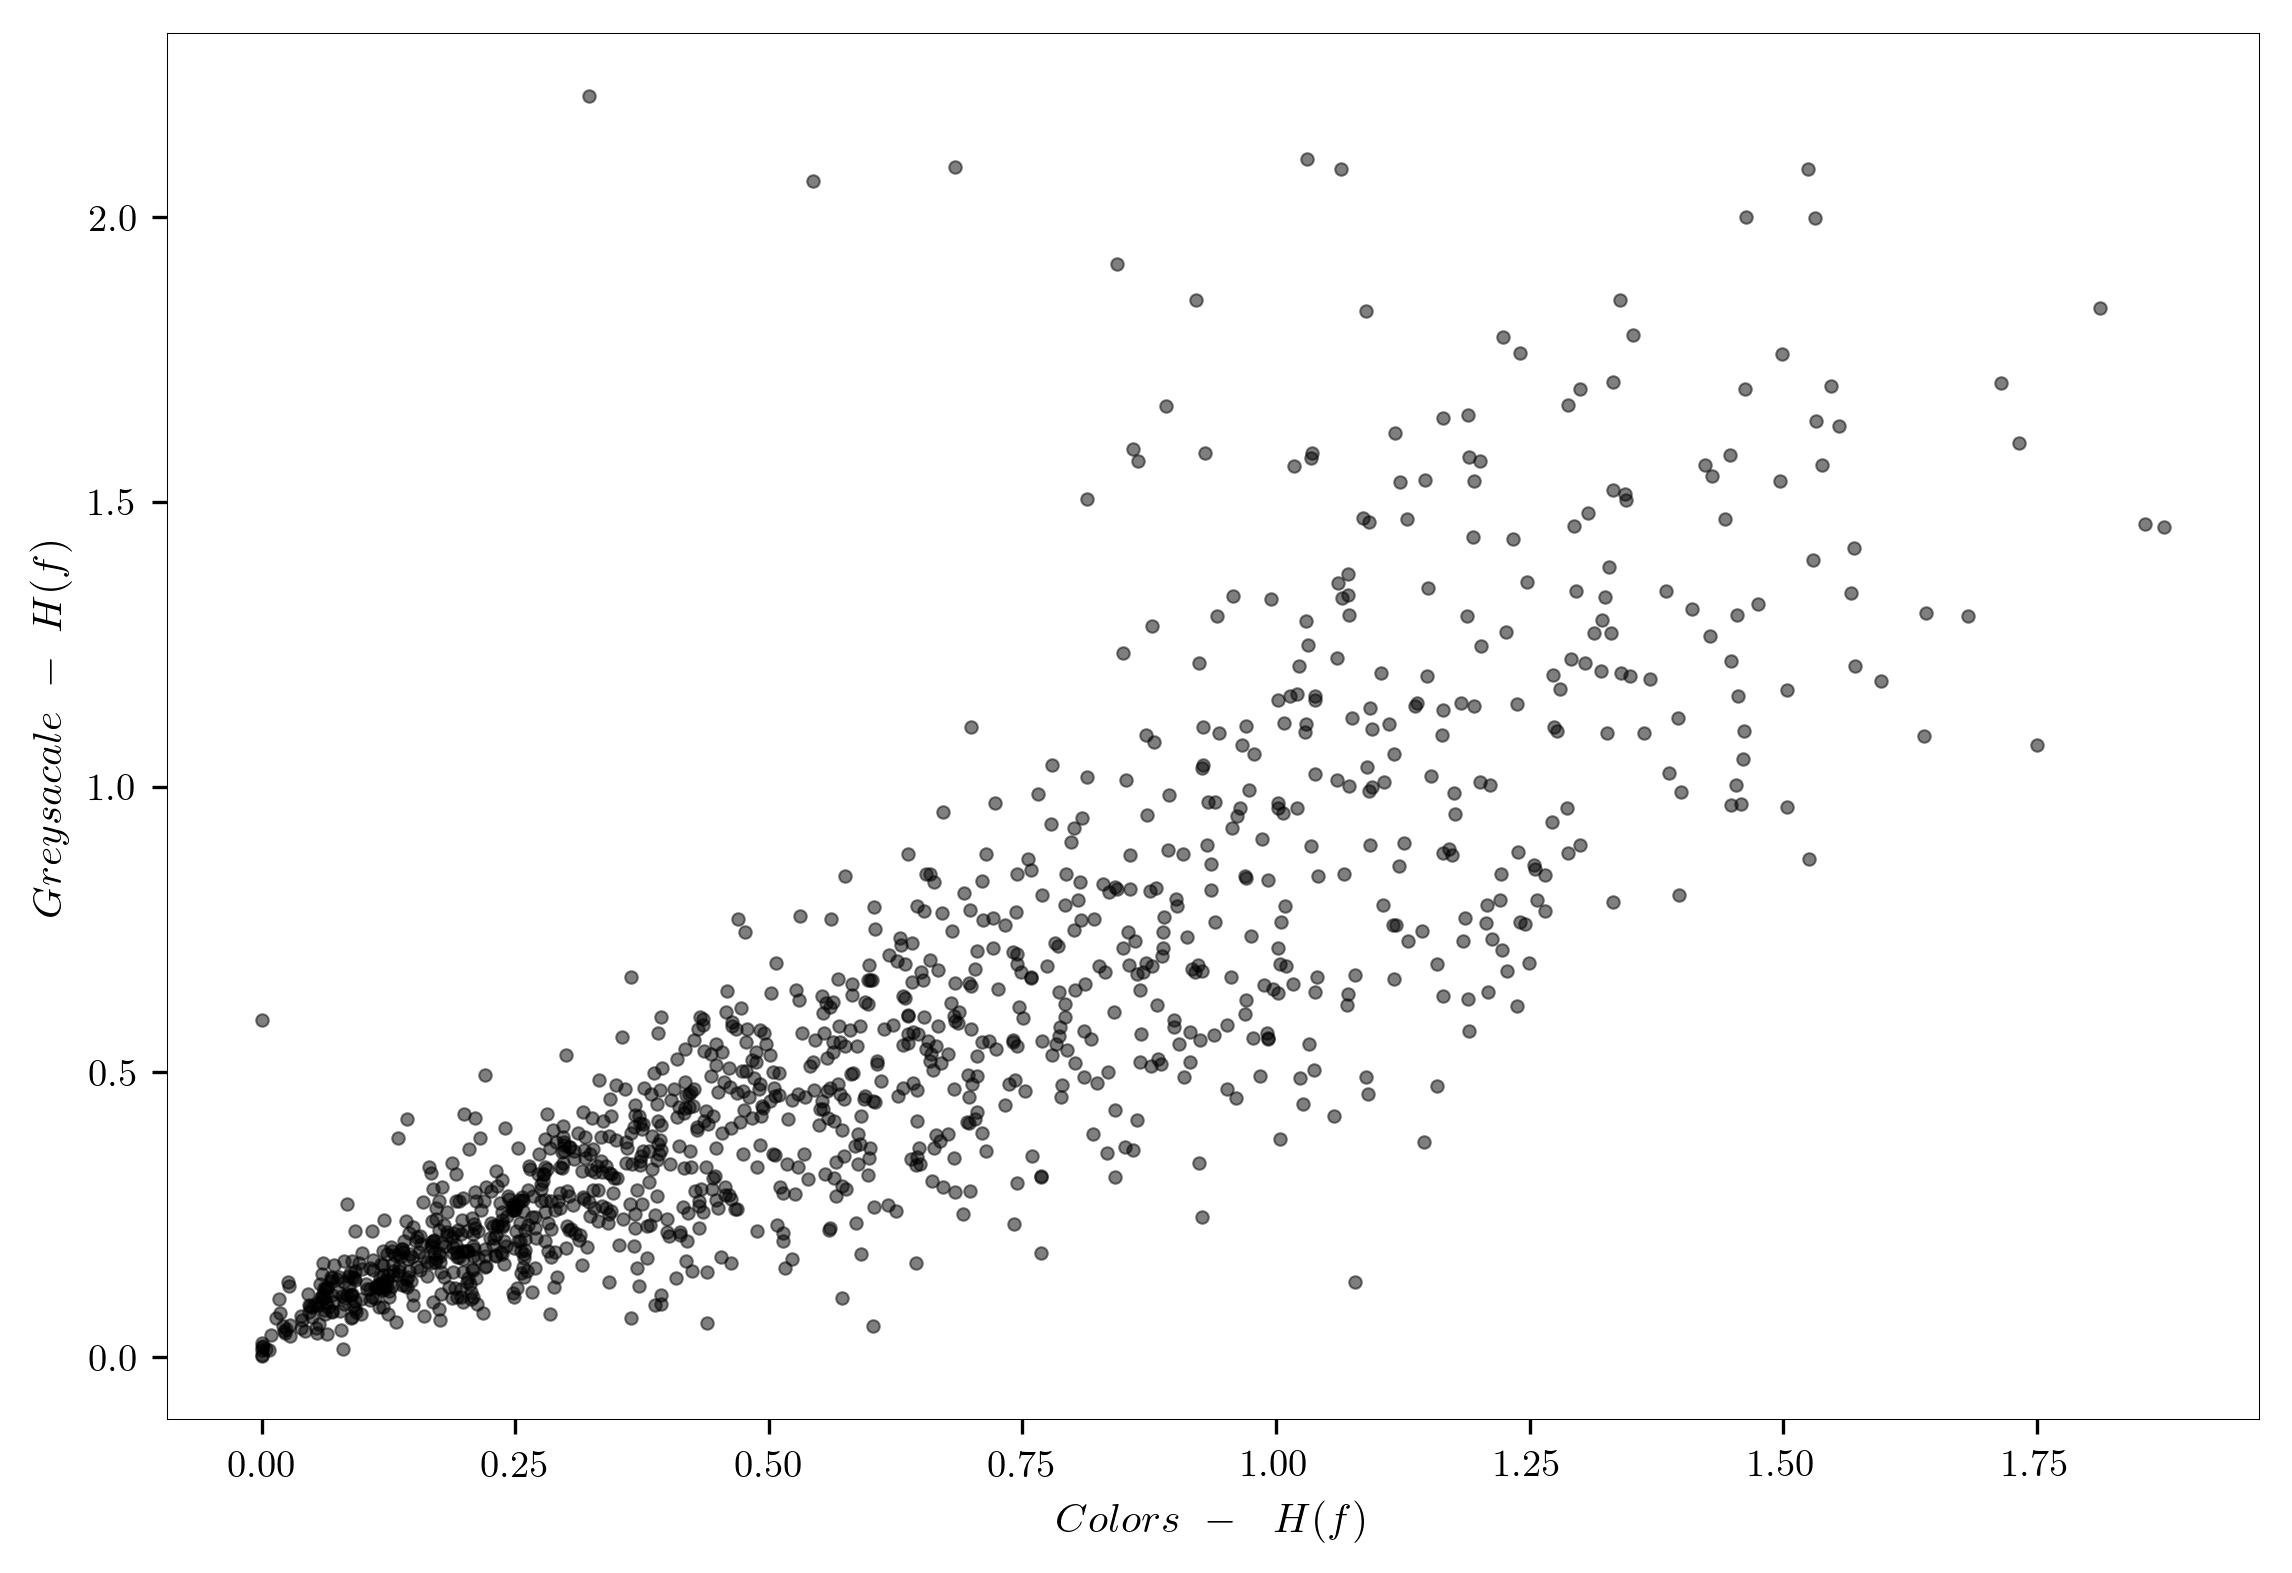
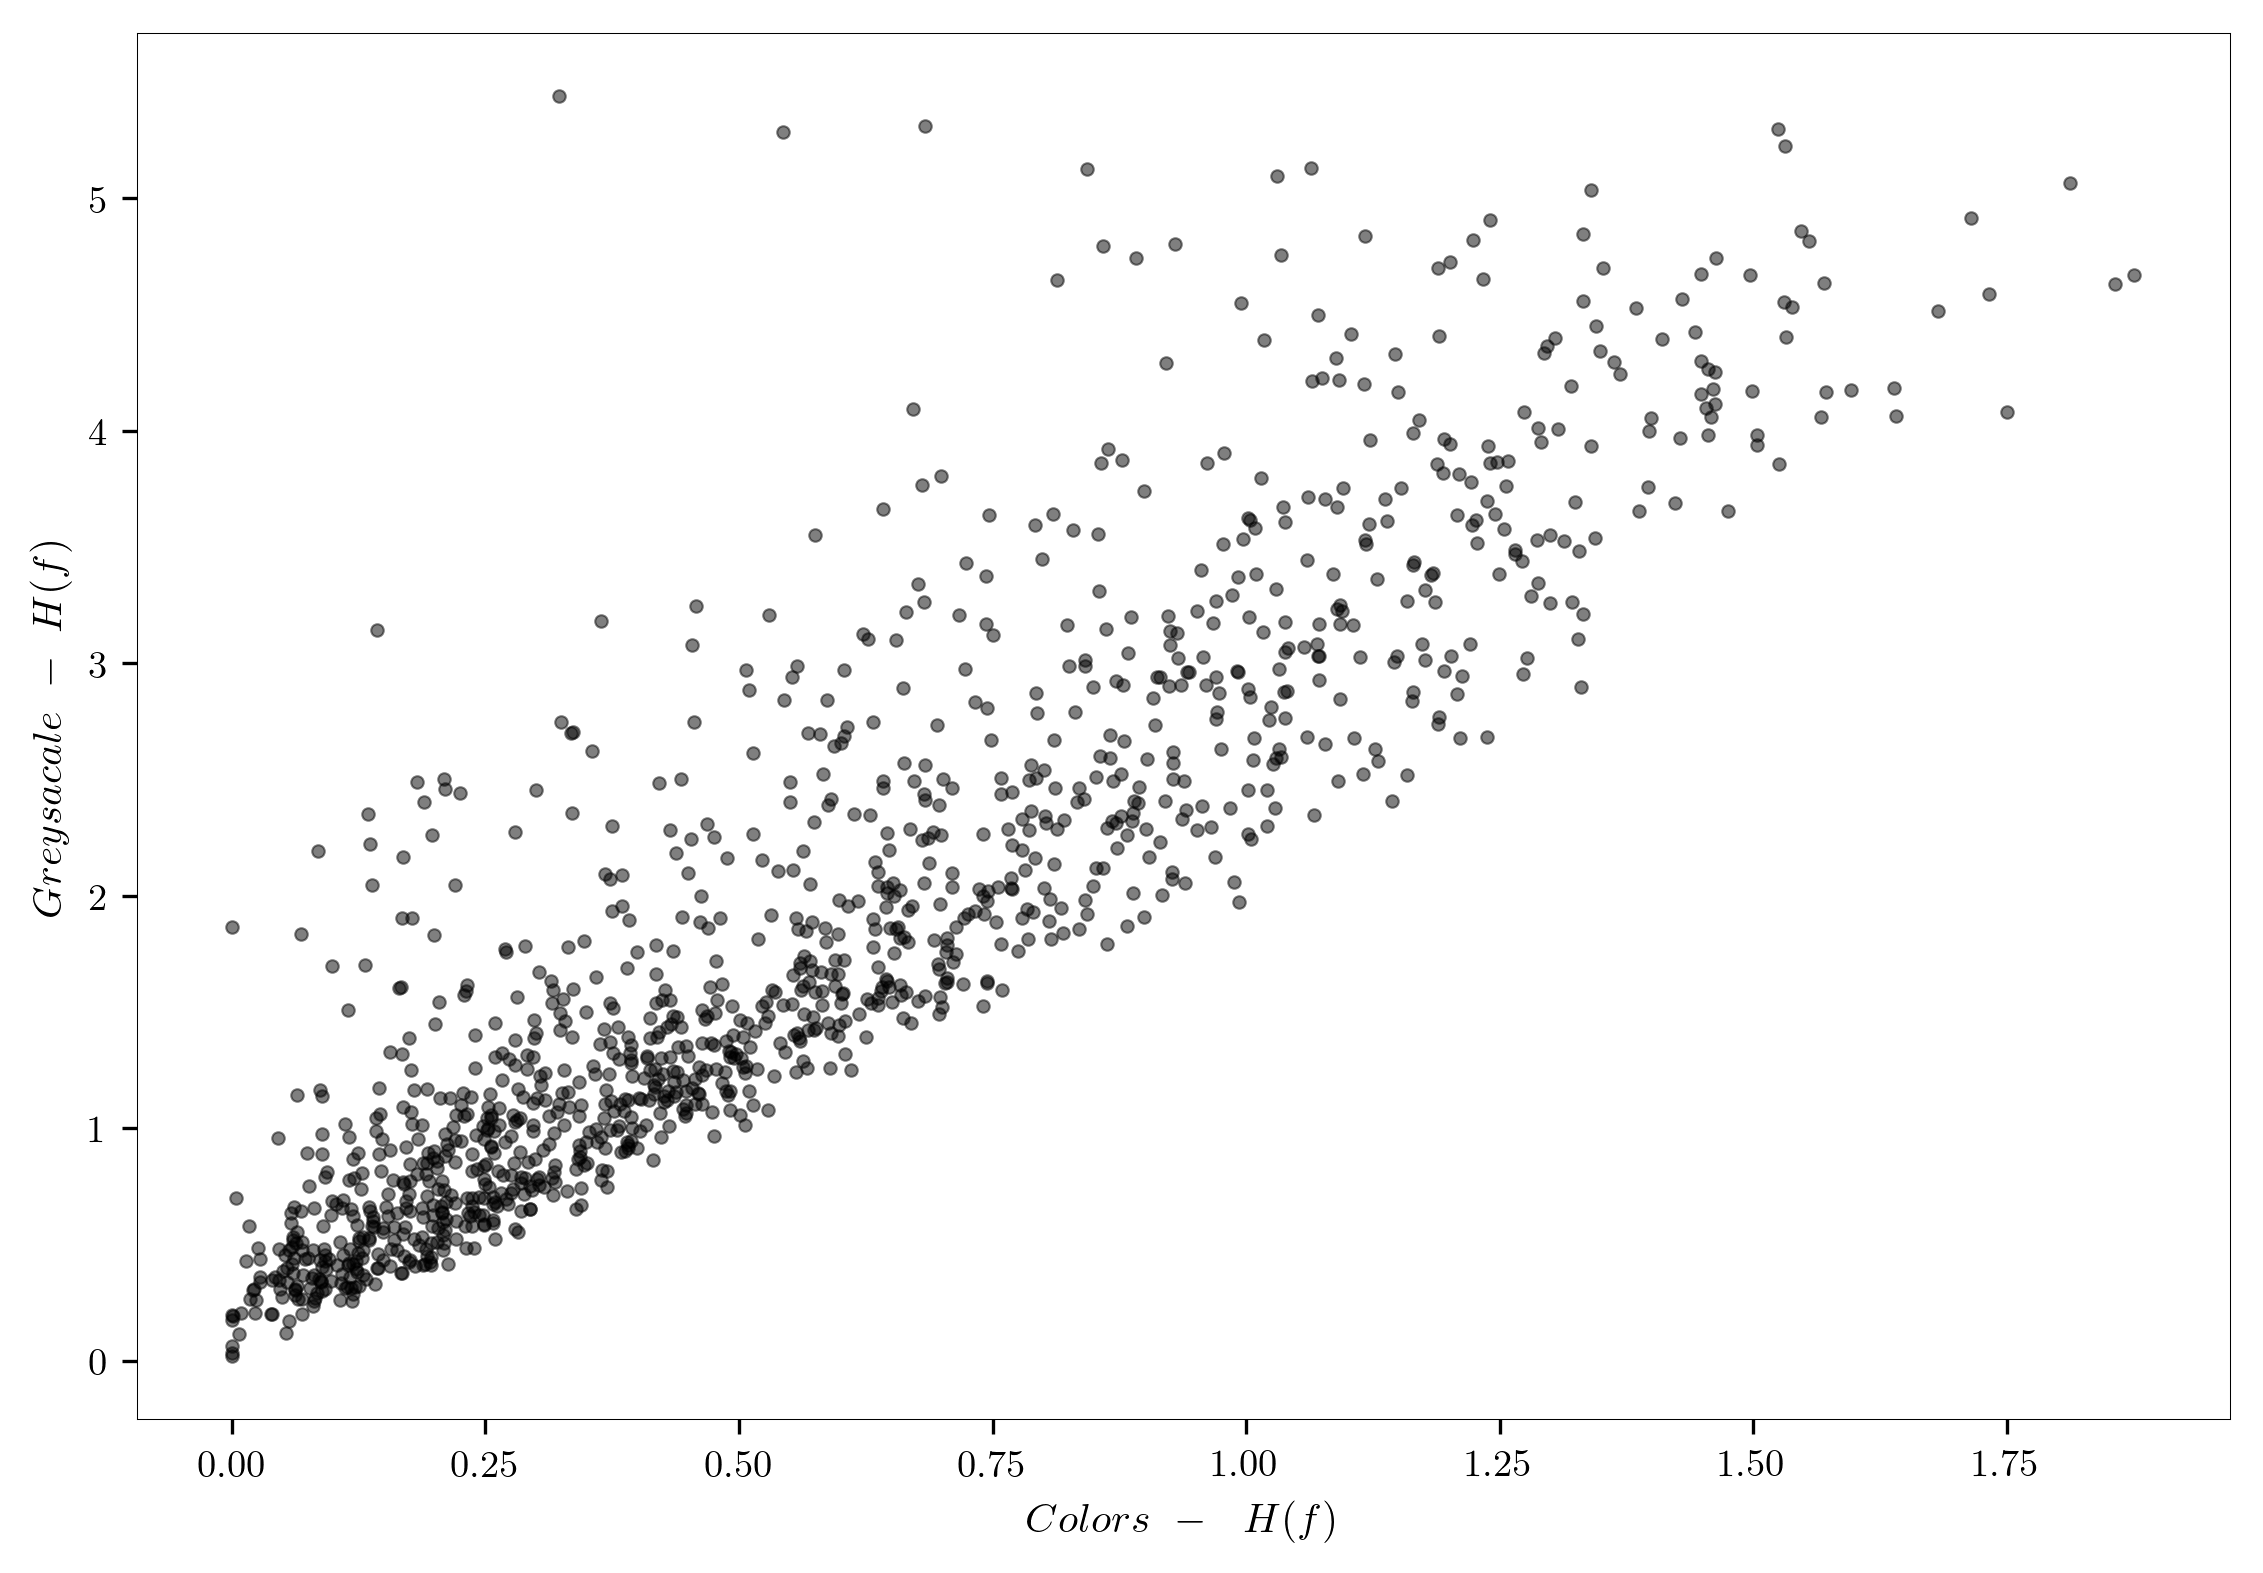
ajout référence Wu 2013 entropie qu'il faudra mettre dans Colours diversity

diff --git a/main.tex b/main.tex
@@ -477,18 +477,14 @@ In more details, we observe on Figure \ref{fig:grille} that the entropy values a
 	\label{fig:grille}
 \end{figure}
 
-\
-
 [PYB: Que peut-on en dire?]
 
-Based on the chosen colour sets, the entropy measure is sensitive to the errors of pixels colour attributions (e.g. similar distances, no Brown, etc.). Then, we compare it with a common approach of Computer Vision which consists to measure the entropy on the histogram greyscale levels of the drawing with the bin $g = 1, \dots, G$. (After the linear conversion of the pixel, we estimated and summed each probability that a grey value appears using the absolute variety as the number of unique grey value. )
-
-On Figure~\ref{fig:entropies}
+Based on the chosen colour sets, the entropy measure is sensitive to the errors during the pixel colour attributions (e.g. similar distances, no Brown, etc.). Then, we compare it with a common approach of Computer Vision which consists to measure the entropy on the greyscale levels histogram of the drawing. The scatter plot, figure~\ref{fig:entropies}, depicts the significant Pearson correlation ($r=0.8866$, $p=0.000$) between these two entropy [A citer dans section 3.5 \cite{wu2013}]. 
 
 \begin{figure}[h!]
 	\centering
 	\includegraphics[width=\linewidth]{figures/colors-greysacale-entropies.png}
-	\caption{ }
+	\caption{Scatter plot of the entropy on the greyscale levels histogram with the main colours entropy.}
 	\label{fig:entropies}
 \end{figure}
 
